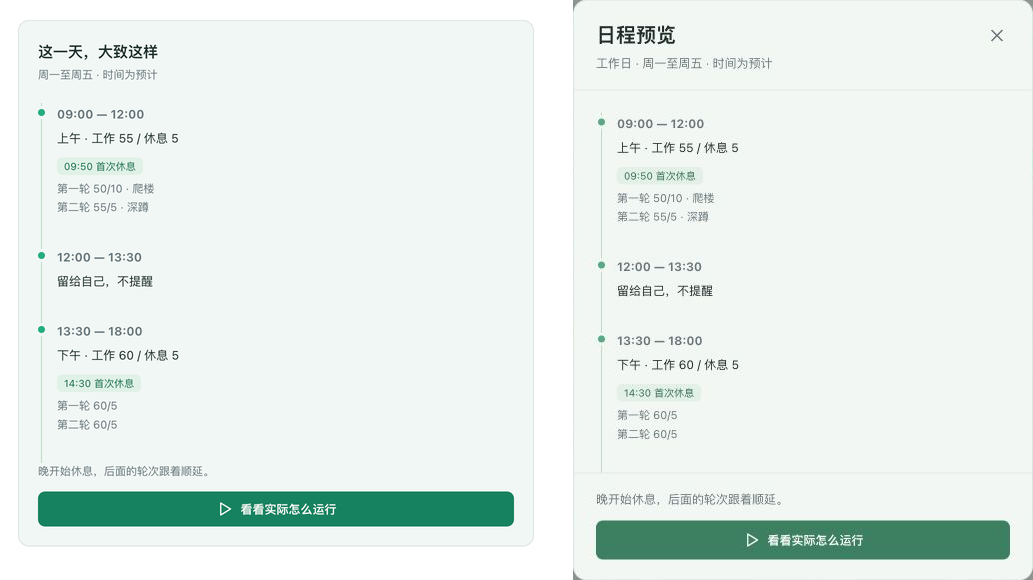
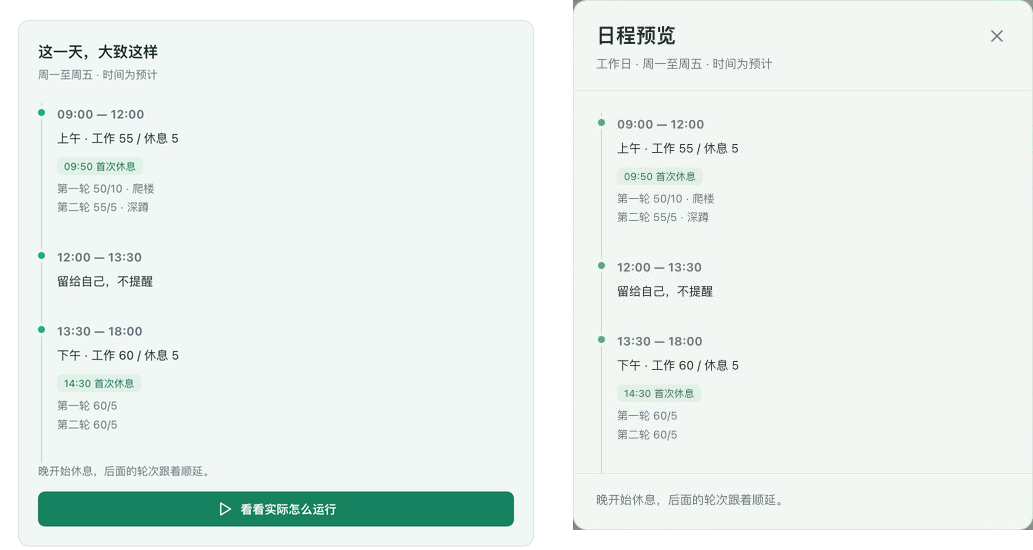
prototype: 保持日程预览只读并明确试运行边界

diff --git a/src/schedule.prototype.ts b/src/schedule.prototype.ts
@@ -314,14 +314,14 @@ schedulePreview.setAttribute("aria-describedby", "schedule-preview-description")
 document.body.append(schedulePreview);
 
 function openSchedulePreview() {
-  schedulePreview.innerHTML = `<header class="preview-head"><div><h2 id="schedule-preview-title">日程预览</h2><p id="schedule-preview-description">${escape(plan().name)} · ${escape(repeatLabel())} · 时间为预计</p></div>${button(icon("close"), "close-preview", 'aria-label="关闭日程预览" autofocus', "close-button")}</header><div class="preview-scroll">${agenda()}</div><footer class="preview-footer"><p>晚开始休息，后面的轮次跟着顺延。</p>${button(`${icon("play")} 看看实际怎么运行`, "preview-run", "", "primary")}</footer>`;
+  schedulePreview.innerHTML = `<header class="preview-head"><div><h2 id="schedule-preview-title">日程预览</h2><p id="schedule-preview-description">${escape(plan().name)} · ${escape(repeatLabel())} · 时间为预计</p></div>${button(icon("close"), "close-preview", 'aria-label="关闭日程预览" autofocus', "close-button")}</header><div class="preview-scroll" role="region" aria-label="预计日程" tabindex="0">${agenda()}</div><footer class="preview-footer"><p>晚开始休息，后面的轮次跟着顺延。</p></footer>`;
   schedulePreview.showModal();
 }
 
-// 原生浮窗隔离背景并处理 Esc；Tab 在浮窗操作之间循环。
+// 原生浮窗隔离背景并处理 Esc；Tab 在关闭入口和可滚动内容之间循环。
 schedulePreview.addEventListener("keydown", (event) => {
   if (event.key !== "Tab") return;
-  const controls = schedulePreview.querySelectorAll<HTMLButtonElement>("button:not(:disabled)");
+  const controls = schedulePreview.querySelectorAll<HTMLElement>('button:not(:disabled), [tabindex="0"]');
   const first = controls[0], last = controls[controls.length - 1];
   if (event.shiftKey && document.activeElement === first) { event.preventDefault(); last.focus(); }
   else if (!event.shiftKey && document.activeElement === last) { event.preventDefault(); first.focus(); }
@@ -334,18 +334,6 @@ schedulePreview.addEventListener("click", (event) => {
   }
   const action = (event.target as HTMLElement).closest<HTMLElement>("[data-action]")?.dataset.action;
   if (action === "close-preview") schedulePreview.close();
-  if (action === "preview-run") {
-    schedulePreview.close();
-    if (save()) { state.view = "run"; resetSimulation(); }
-    render();
-    window.scrollTo({ top: 0 });
-    if (state.error) document.querySelector<HTMLElement>(".form-error")?.focus({ preventScroll: true });
-    else {
-      const heading = document.querySelector<HTMLElement>(".page-heading h1")!;
-      heading.tabIndex = -1;
-      heading.focus({ preventScroll: true });
-    }
-  }
 });
 
 document.querySelector(".prototype-heading")!.addEventListener("change", (event) => {

diff --git a/src/schedule.prototype.css b/src/schedule.prototype.css
@@ -234,7 +234,7 @@ body.settings-prototype[data-theme=dark] {
 .add-period { width: 100%; border-style: dashed; background: var(--ui-field); margin-top: 1px; min-height: 40px; }
 .gap-label { display: flex; align-items: center; gap: 9px; font-size: 11px; color: var(--ui-muted); margin: 17px 12px; }
 .gap-label::before, .gap-label::after { content: ''; height: 1px; flex: 1; background: var(--ui-divider); }
-/* 概览按需打开，标题和操作始终可见；长日程只在浮窗内滚动。 */
+/* 概览只读且按需打开，标题和关闭入口始终可见；长日程只在浮窗内滚动。 */
 html:has(.schedule-preview[open]) { overflow: hidden; }
 .schedule-preview-trigger { flex-shrink: 0; }
 .schedule-preview { width: min(460px, calc(100vw - 32px)); max-width: none; max-height: calc(100dvh - 48px); margin: auto; padding: 0; border: 1px solid var(--ui-border); border-radius: 14px; background: var(--ui-soft); color: var(--ui-ink); box-shadow: 0 20px 70px #00000033; overflow: hidden; }
@@ -245,12 +245,12 @@ html:has(.schedule-preview[open]) { overflow: hidden; }
 .preview-head p { margin-top: 5px; font-size: 12px; line-height: 19px; color: var(--ui-muted); overflow-wrap: anywhere; }
 .preview-head .close-button { flex: none; margin-top: 1px; }
 .preview-scroll { padding: 22px 24px 0; overflow-y: auto; overscroll-behavior: contain; min-height: 0; }
+.preview-scroll:focus-visible { outline: 2px solid var(--ui-focus); outline-offset: -3px; }
 .agenda-empty { text-align: center; padding: 26px 0 44px; }
 .agenda-empty h3 { font-size: 15px; margin-bottom: 8px; }
 .agenda-empty p { color: var(--ui-muted); font-size: 12px; }
 .preview-footer { padding: 16px 22px 20px; border-top: 1px solid var(--ui-divider); flex: none; }
-.preview-footer p { font-size: 12px; color: var(--ui-muted); line-height: 19px; margin-bottom: 12px; }
-.preview-footer .pbutton { width: 100%; min-height: 39px; }
+.preview-footer p { font-size: 12px; color: var(--ui-muted); line-height: 19px; }
 .agenda-item { padding-left: 15px; margin-left: 3px; border-left: 1px solid var(--ui-selected-border); padding-bottom: 23px; position: relative; }
 .agenda-item::before { content: ''; position: absolute; width: 7px; height: 7px; background: var(--ui-green); border: 3px solid var(--ui-soft); box-sizing: content-box; border-radius: 50%; top: 3px; left: -7px; }
 .agenda-item time { font-size: 12px; font-weight: 650; color: var(--ui-muted); }

diff --git a/design-qa.md b/design-qa.md
@@ -2,7 +2,7 @@
 
 日期：2026-10-14。对象：A · 时段卡片、「节奏优先」视觉、明暗主题及切换日程时的固定窗口宽度。
 
-当前无待处理的 P0、P1 或 P2。新增的日程预览浮窗已通过明暗主题、键盘、草稿、窄屏和试运行检查。只保留 A；两种主题的简单设置、日程编辑及运行状态已在真实浏览器中检查。日程向下展开是此次固定宽度要求带来的明确调整。
+当前无待处理的 P0、P1 或 P2。日程预览浮窗已通过明暗主题、键盘、草稿和窄屏检查；试运行仅保留在原型外侧，正式产品不提供该入口。只保留 A；两种主题的简单设置、日程编辑及运行状态已在真实浏览器中检查。日程向下展开是此次固定宽度要求带来的明确调整。
 
 ## 对照依据
 
@@ -90,7 +90,7 @@ P3：正式接入时根据 Windows 原生字体、时间输入控件及可用屏
 
 用户希望将常驻当天概览移到浮窗，减少设置页占用。source visual truth path 为 `docs/ui-design/overview-reference.png`，即用户提供的原概览截图；implementation screenshot path 为 `docs/ui-design/evidence/preview-light.png`。
 
-源图原始像素 1098 × 1100，以 1/2 等比归一化为 549 × 550 CSS px 参考。实现截图为 600 × 900、DPR 1，其中浮窗实测宽 460、高约 581 CSS px。两者均为浅色、默认工作日日程、同样的两段时长和活动。浮窗新增标题/关闭入口并固定底部操作，尺寸和框架差异属于此次明确要求；不以它们作为逐像素匹配目标。
+源图原始像素 1098 × 1100，以 1/2 等比归一化为 549 × 550 CSS px 参考。实现截图为 600 × 900、DPR 1，其中浮窗实测宽 460、高约 530 CSS px。两者均为浅色、默认工作日日程、同样的两段时长和活动。浮窗新增标题/关闭入口，按用户确认移除试运行按钮，底部只保留顺延说明；尺寸和框架差异属于此次明确要求，不以它们作为逐像素匹配目标。
 
 ![左为原常驻概览，右为当前预览浮窗](docs/ui-design/evidence/overview-comparison.png)
 
@@ -100,19 +100,19 @@ P3：正式接入时根据 Windows 原生字体、时间输入控件及可用屏
 | --- | --- |
 | 字体与排印 | 延续系统字体和原概览 12 px 时间/正文、11 px 辅助文字；浮窗标题为 20/28、650 字重，说明为 12/19。长日程名可换行。 |
 | 间距与布局 | 原常驻卡片移除，标题旁留下预览入口；浮窗宽 460，内边距约 22–24，保持时间线节奏。新增遮罩和固定页头/底部是有意调整。底层设置窗口仍为 562。 |
-| 颜色 | 使用原主题变量的分组底色、文字、边框和主按钮，深色同步适配；遮罩只区分前后层次。 |
-| 图标与图像 | 预览入口使用 Tabler 官方眼睛图标，关闭与播放沿用已有图标；原概览没有位图资产。 |
-| 文案与内容 | 时段、空档、预计时间、首两轮内容和顺延提示保留。新增日程名称与关闭语义，未增加配置项。 |
+| 颜色 | 使用原主题变量的分组底色、文字、边框和焦点环，深色同步适配；遮罩只区分前后层次。 |
+| 图标与图像 | 预览入口使用 Tabler 官方眼睛图标，关闭沿用已有图标；原概览没有位图资产，浮窗内播放图标随试运行按钮移除。 |
+| 文案与内容 | 时段、空档、预计时间、首两轮内容和顺延提示保留。新增日程名称与关闭语义，未增加配置项。预览只读，不保存或启动计时。 |
 
-检查中发现一项 P2：初版原生浮窗在末尾按 Tab 时，浏览器可能将焦点移出浮窗操作。已明确处理首尾 Tab/Shift+Tab 循环。复查记录见 `preview-verification.json`：最后按钮 Tab 返回「关闭日程预览」，反向从关闭按钮回到试运行。Esc 关闭后焦点回到预览入口。
+检查中曾发现一项 P2：初版原生浮窗在末尾按 Tab 时，浏览器可能将焦点移出浮窗。已明确处理首尾 Tab/Shift+Tab 循环。本轮移除试运行按钮后，为只读内容保留键盘焦点和滚动入口。复查记录见 `preview-verification.json`：关闭按钮 Tab 进入「预计日程」区域，继续 Tab 返回关闭按钮，反向循环同样有效。Esc 关闭后焦点回到预览入口。
 
 其他实测：
 
 - 打开预览前后底层设置窗口均为 562 px，左侧位置均为 19 px；页面没有内嵌概览。默认日程设置窗口高度为 1524 px。
-- 未保存地将名称改为「我的工作日」、下午工作改为 70，预览立即显示新名称及 14:40 首次休息；关闭后草稿保留。已保存配置仅查看预览后仍显示「已保存」。
-- 在 320 × 568 视口中，浮窗为 296 × 544，四边留空，底部操作未超出视口。内部可滚动，页面保持滚动位置 0，无横向溢出；在外侧滚动也不带动设置页。
-- 关闭按钮、Esc、点击外侧均可退出。空日程显示提示。
-- 浮窗点击试运行正常进入第一轮 50:00，焦点移到运行标题；上午结束设为 14:00 时，校验失败则关闭浮窗并聚焦冲突提示，草稿仍为 14:00。
+- 本轮将未保存名称改为「我的工作日」，预览立即更新，关闭后草稿保留。明确保存后再打开、关闭预览，按钮仍显示「已保存」。上一轮已验证下午工作 70 时预览显示 14:40 首次休息；本轮未改动预计时间算法。
+- 在 320 × 568 视口中，浮窗为 296 × 515，四边留空，无横向溢出。另在 320 × 420 检查键盘 PageDown：内容滚动 111 px，页面滚动位置保持 0。
+- 关闭按钮与 Esc 本轮复查通过；点击外侧退出和空日程提示沿用上一轮已验证行为。
+- 浮窗内只保留关闭按钮，不含保存、试运行或时间推进操作。原型外侧试运行仍可进入上午第一轮，显示 50:00；正式产品不提供这组演示工具。
 - `npm run build`、`git diff --check` 通过，控制台错误和警告为空。没有新增测试框架。
 
 证据：`preview-light.png`、`preview-dark.png`、`preview-dark-320.png`、`preview-verification.json`。预览入口和日程页的当前截图已更新。

diff --git a/docs/ui-design/README.md b/docs/ui-design/README.md
@@ -34,9 +34,9 @@
 
 ![日程预览浮窗](evidence/preview-light.png)
 
-预览浮窗使用相同的明暗主题，桌面宽度 460 CSS px，窄屏保留两侧间距。顶部显示日程名称与重复规则，中间展示预计安排，底部保留「看看实际怎么运行」。内容较长时只滚动中间区域，关闭和试运行入口始终可见。
+预览浮窗使用相同的明暗主题，桌面宽度 460 CSS px，窄屏保留两侧间距。顶部显示日程名称与重复规则，中间展示预计安排，底部仅说明时间可能顺延。内容较长时只滚动中间区域，关闭入口始终可见。
 
-打开预览不保存草稿，也不重建设置表单；关闭按钮、Esc、点击外侧均可退出，焦点回到预览按钮。Tab 和 Shift+Tab 在浮窗内循环。点击试运行时才沿用现有保存校验；配置有误则返回设置页提示问题，保留草稿。
+预览只读，打开时不保存草稿、不重建设置表单，也不启动计时；关闭按钮、Esc、点击外侧均可退出，焦点回到预览按钮。Tab 和 Shift+Tab 在关闭入口与内容区域间循环；内容区域支持键盘滚动。正式产品不提供试运行或模拟时间操作。
 
 [深色浮窗](evidence/preview-dark.png) · [320 px 窄窗](evidence/preview-dark-320.png)
 
@@ -84,7 +84,7 @@
 
 [320 px 深色日程](evidence/schedule-dark-320.png) · [320 px Windows 设置](evidence/windows-dark-320.png)
 
-外观、平台和试运行是窗口外的预览工具。其他方案、布局切换快捷键、调试数据面板及过期截图已清理；旧版本可从 Git 提交历史查阅。
+外观、平台和试运行是窗口外的原型验收工具，不进入正式产品设置或预览浮窗。其他方案、布局切换快捷键、调试数据面板及过期截图已清理；旧版本可从 Git 提交历史查阅。
 
 ## 交付范围
 

diff --git a/src/schedule.prototype.md b/src/schedule.prototype.md
@@ -36,7 +36,7 @@ npm run prototype:schedule
 
 像手机闹钟一样选择每周重复或仅一次。每个时段设置开始/结束时间和默认工作/休息时长，按需展开单轮调整。休息内容自由输入一项或多项活动，整次休息共用一个倒计时。
 
-预览浮窗列出当前草稿的时段、空档、首次预计休息和特殊轮次，并说明时间可能顺延。预览本身不保存修改；可用关闭按钮、Esc 或点击外侧返回编辑，保留草稿、展开状态和焦点。长内容在浮窗内滚动，标题与试运行按钮固定可见。到点先提醒；用户可「再等等」或「开始休息」。晚开始仍计满休息时长，后续轮次顺延。
+预览浮窗只读，列出当前草稿的时段、空档、首次预计休息和特殊轮次，并说明时间可能顺延。预览不保存修改或启动计时；可用关闭按钮、Esc 或点击外侧返回编辑，保留草稿、展开状态和焦点。长内容在浮窗内滚动，标题与关闭入口固定可见，支持键盘滚动。到点先提醒；用户可「再等等」或「开始休息」。晚开始仍计满休息时长，后续轮次顺延。
 
 ## 外观与演示工具
 
@@ -44,7 +44,7 @@ npm run prototype:schedule
 
 切换主题不重建表单，也不重置草稿、单轮展开状态或试运行进度。输入、下拉菜单、原生时间控件、保存反馈及所有运行状态使用一致的主题变量。
 
-窗口外只保留外观、平台和试运行控件。
+窗口外只保留外观、平台和试运行控件，供设计与规则验收使用。正式产品保留只读日程预览，不提供试运行、时间推进或情景模拟入口。
 
 ## 建议试用过程
 
